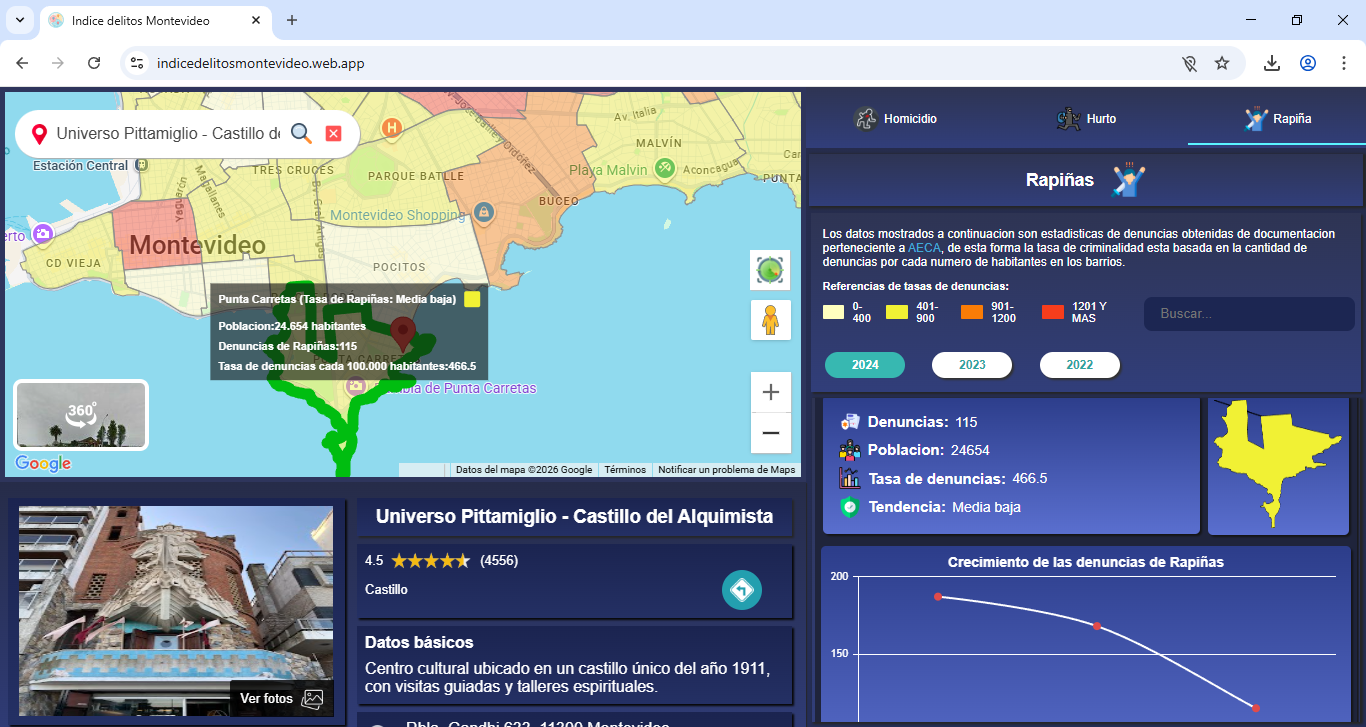
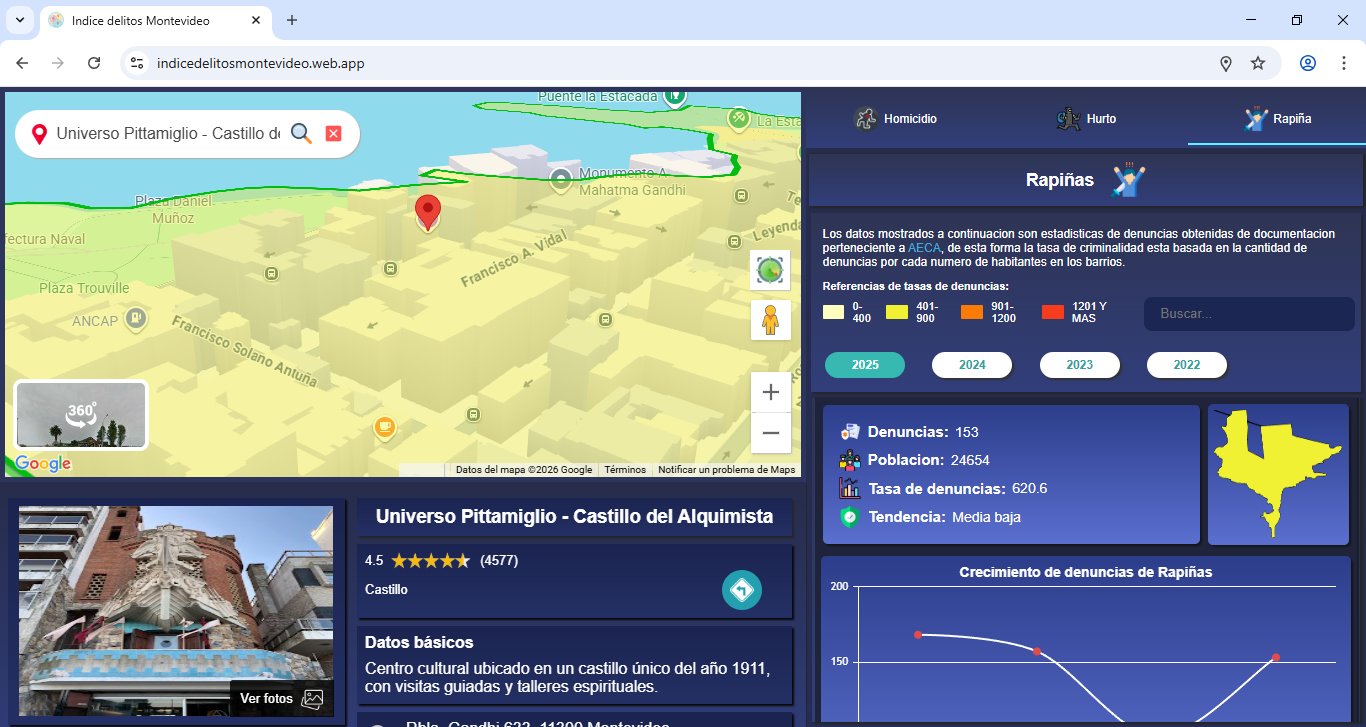
fix:captures of README.md changed

diff --git a/backend/src/route/routeLogout.js b/backend/src/route/routeLogout.js
@@ -6,6 +6,8 @@ RoutesLogout.post("/", (req, res) => {
   try {
     res.clearCookie("authenticationToken");
     res.clearCookie("authenticationRefreshToken");
+
+    res.status(200).json(true);
   } catch (error) {
     res.status(502).json({ messageError: error.message });
   }
